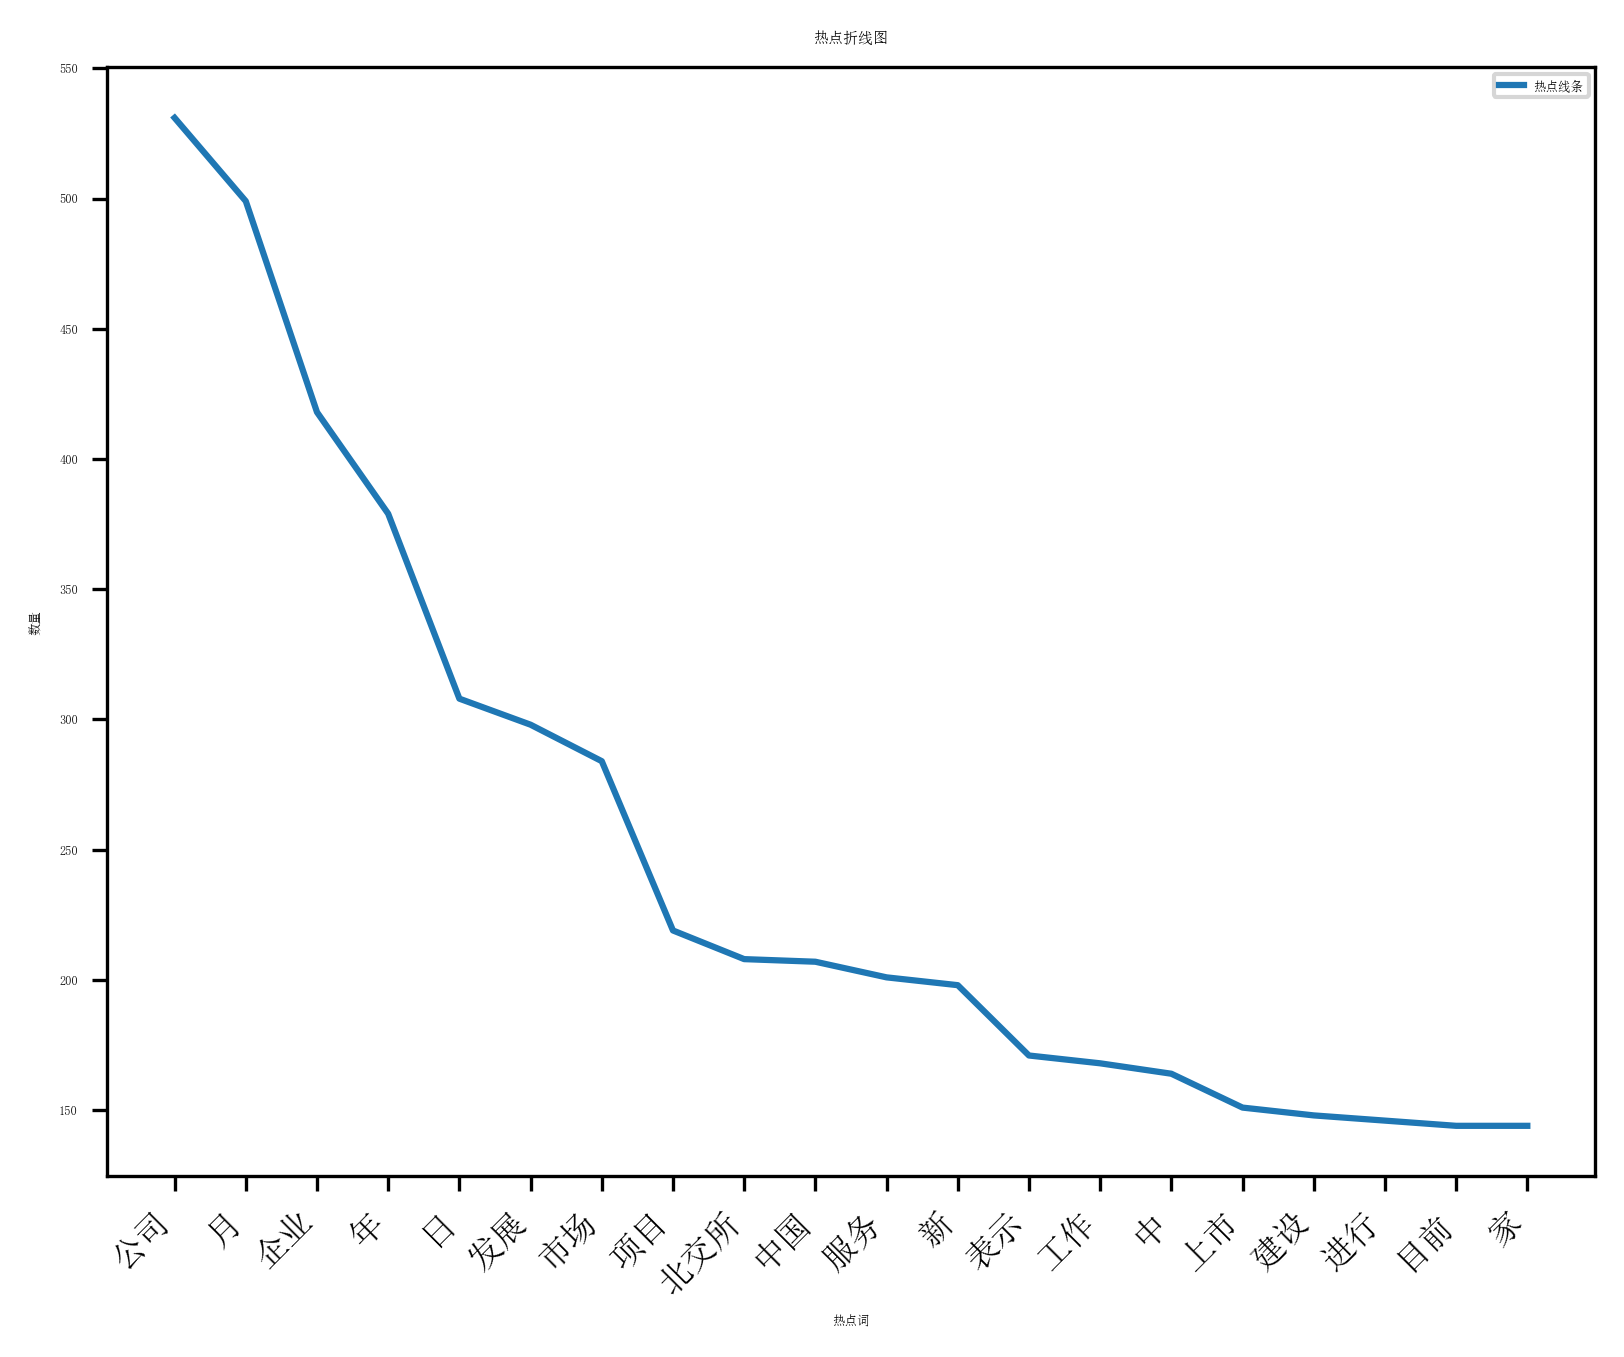
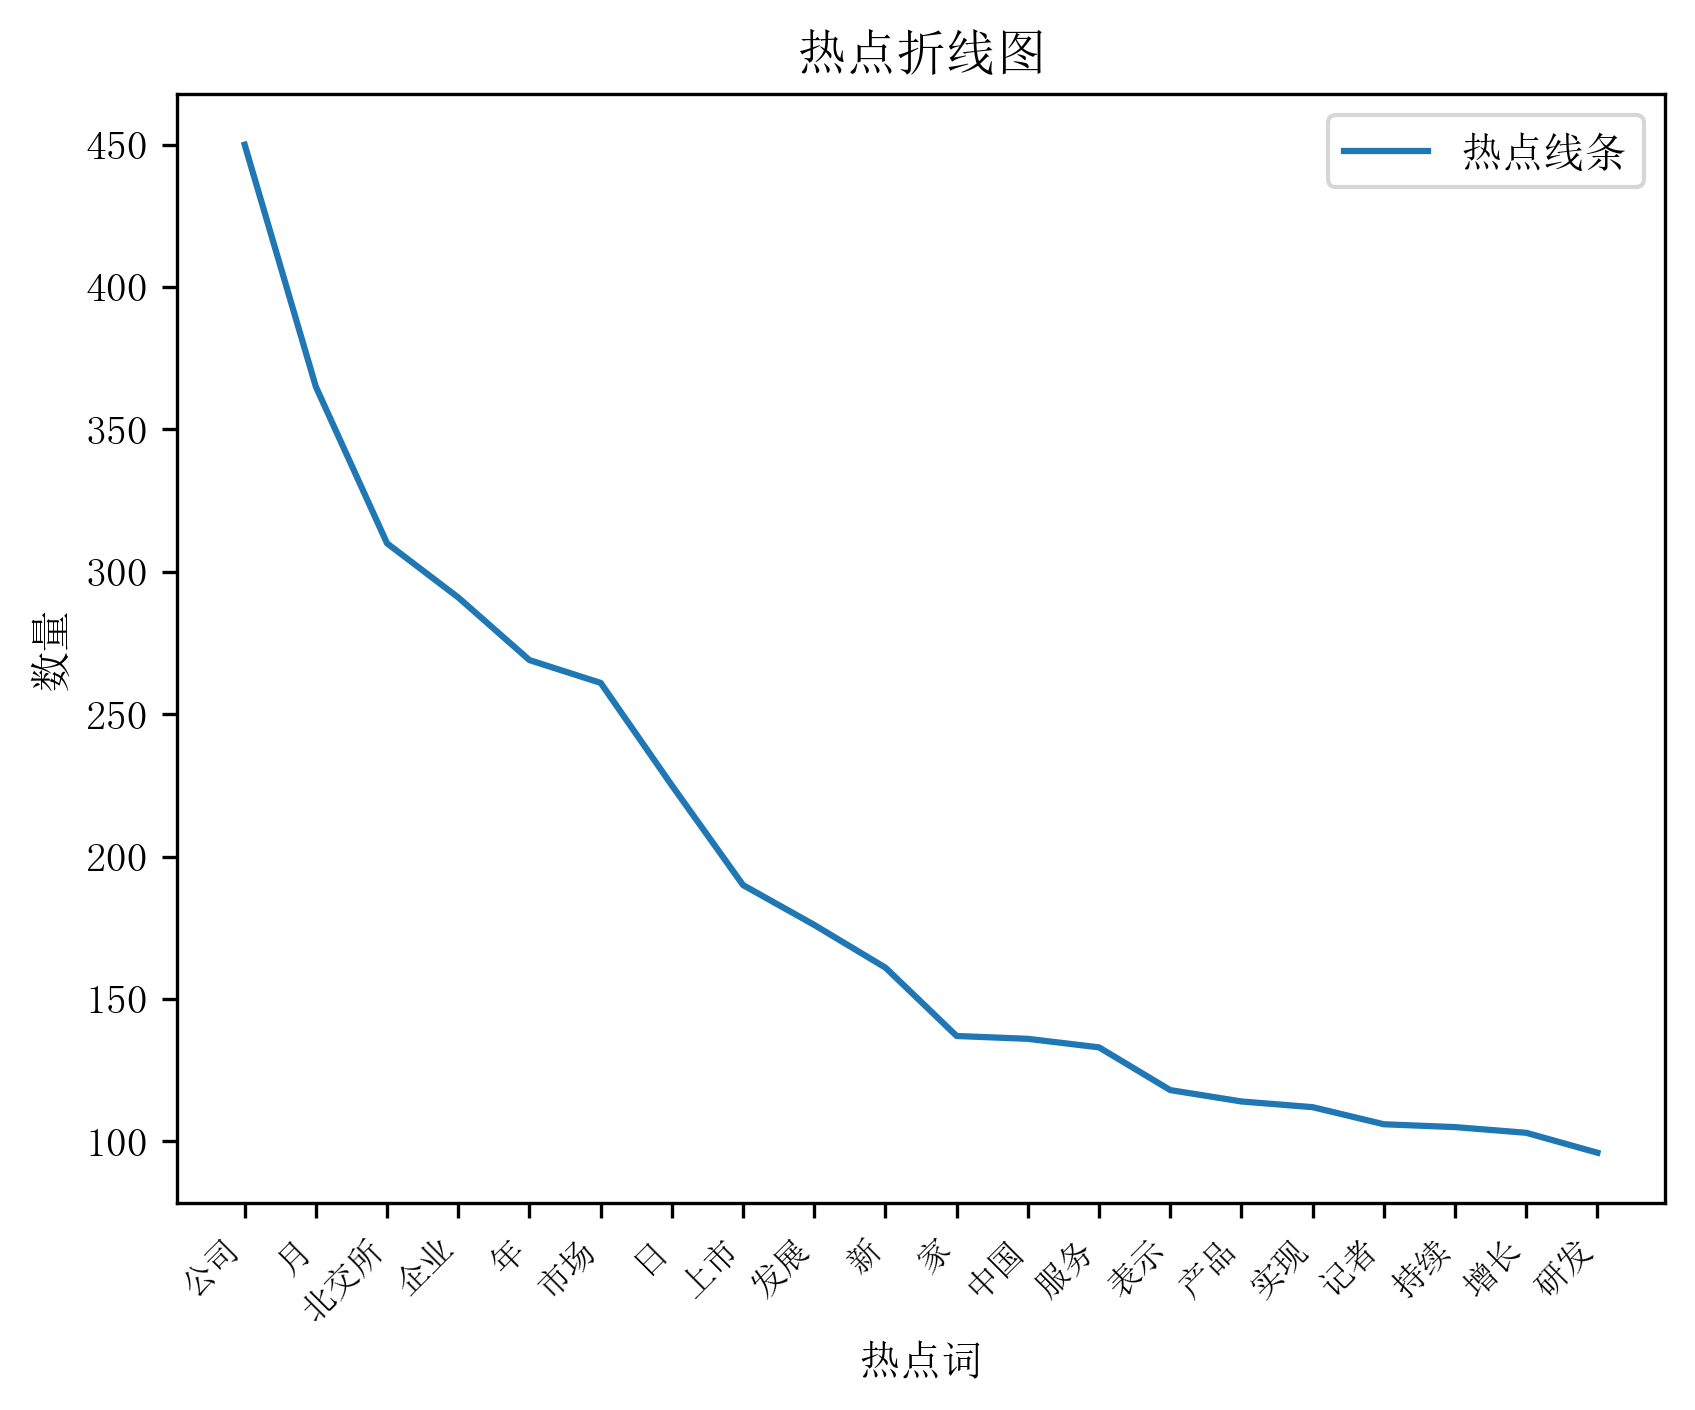
fix: 添加标题

diff --git a/stock_chart.py b/stock_chart.py
@@ -34,6 +34,7 @@ class StockChartCrawler:
     def __init__(self, chart_url):
         self.ui = uic.loadUi('./ui/stock_chart.ui')
         icon = QIcon('image/logo.png')  # 替换为你的图标文件的路径
+        self.ui.setWindowTitle('财经新闻信息抓取与分析系统')
         self.ui.setWindowIcon(icon)
         self.chart_url = chart_url
 
@@ -65,17 +66,19 @@ class StockChartCrawler:
         img = soup.select('.time_static_img img')[0]
         img_src = img['src']
         print(img_src)
-
-        # driver.get('https://webquotepic.eastmoney.com/GetPic.aspx?imageType=r&type=&token=44c9d251add88e27b65ed86506f6e5da&nid=0.833284&timespan=1702982769')
         driver.get('http:' + img_src)
         soup = BeautifulSoup(driver.page_source, 'html.parser')
         print(soup)
-        driver.execute_script("var img = document.querySelector('img');var canvas = document.createElement('canvas'); var ctx = canvas.getContext('2d'); canvas.width = img.width;; canvas.height = img.height; ctx.drawImage(img, 0, 0); var dataURL = canvas.toDataURL('image/png'); console.log(dataURL); const paragraph = document.createElement('p'); const text = document.createTextNode(dataURL); paragraph.appendChild(text); document.body.appendChild(paragraph);")
+        driver.execute_script("var img = document.querySelector('img');var canvas = document.createElement('canvas'); "
+                              "var ctx = canvas.getContext('2d'); canvas.width = img.width;; canvas.height = "
+                              "img.height; ctx.drawImage(img, 0, 0); var dataURL = canvas.toDataURL('image/png'); "
+                              "console.log(dataURL); const paragraph = document.createElement('p'); const text = "
+                              "document.createTextNode(dataURL); paragraph.appendChild(text); "
+                              "document.body.appendChild(paragraph);")
         soup = BeautifulSoup(driver.page_source, 'html.parser')
         driver.close()
         img_data = soup.find('p').text
         print(img_data)
-
         image_data = base64.b64decode(img_data[22:])
         image = Image.open(io.BytesIO(image_data))
         image.save("img.png")

diff --git a/search.py b/search.py
@@ -70,19 +70,13 @@ class Search(QWidget):
         resultzhenjuan=[]
         with open('shared_data.json', 'r') as file:
             data = json.load(file)
-        # print(data[0]['permission'][0])
-        # print(data[0]['permission'][0]=='1')
         if data[0]['permission'][0]=='1':
             resultsina = db.get_list('select * from sina_crawler_nationalNews where title like %s UNION select * from sina_crawler_LocalNews where title like %s UNION select * from sina_crawler_InternationalNews where title like %s ', [f'%{searchContant}%']*3)
-            print(resultsina)
         if data[0]['permission'][1] == '1':
             resultzhenjuan = db.get_list('select * from crawler_tb4 where title like %s UNION select * from crawler_tb3 where title like %s UNION select * from crawler_tb2 where title like %s UNION select * from crawler_tb1 where title like %s;', [f'%{searchContant}%']*4)
             print(resultzhenjuan)
         result=resultsina+resultzhenjuan
-        # print(result)
         i=1
-        font = QFont("Arial", 12)  # 设置字体为Arial，大小为12
-        text_color = QColor(255, 0, 0)  # 设置文本颜色为红色
         for new in result:
             item = QListWidgetItem(f'{i}:{new["title"]}')
 

diff --git a/login.py b/login.py
@@ -1,6 +1,5 @@
 import json
 import sys
-import time
 
 from PyQt5 import QtWidgets, uic
 from PyQt5.QtCore import QThread, pyqtSignal
@@ -30,6 +29,7 @@ class Login:
         self.sql_helper = SqlHelper()
         icon = QIcon('image/logo.png')  # 替换为你的图标文件的路径
         self.ui.setWindowIcon(icon)
+        self.ui.setWindowTitle('财经新闻信息抓取与分析系统')
 
         # 登录
         self.ui.pushButton_login.clicked.connect(self.login)

diff --git a/word_detailed_table.py b/word_detailed_table.py
@@ -42,7 +42,7 @@ class Word_detailed_table():
         # 保存图形到临时文件
         temp_file_path = 'picture/temp_plot.png'
         rcParams['font.sans-serif'] = ['SimSun']
-        rcParams['font.size'] = 3
+        rcParams['font.size'] = 10
         figure.savefig(temp_file_path, bbox_inches='tight', pad_inches=0.1, dpi=300, format='png', transparent=True)
         plt.close(figure)
 

diff --git a/main.py b/main.py
@@ -18,6 +18,7 @@ class Main():
     def __init__(self):
         super(Main, self).__init__()
         self.ui = uic.loadUi('./ui/main.ui')
+        self.ui.setWindowTitle('财经新闻信息抓取与分析系统')
 
         get_word_analysis_picture()
 
